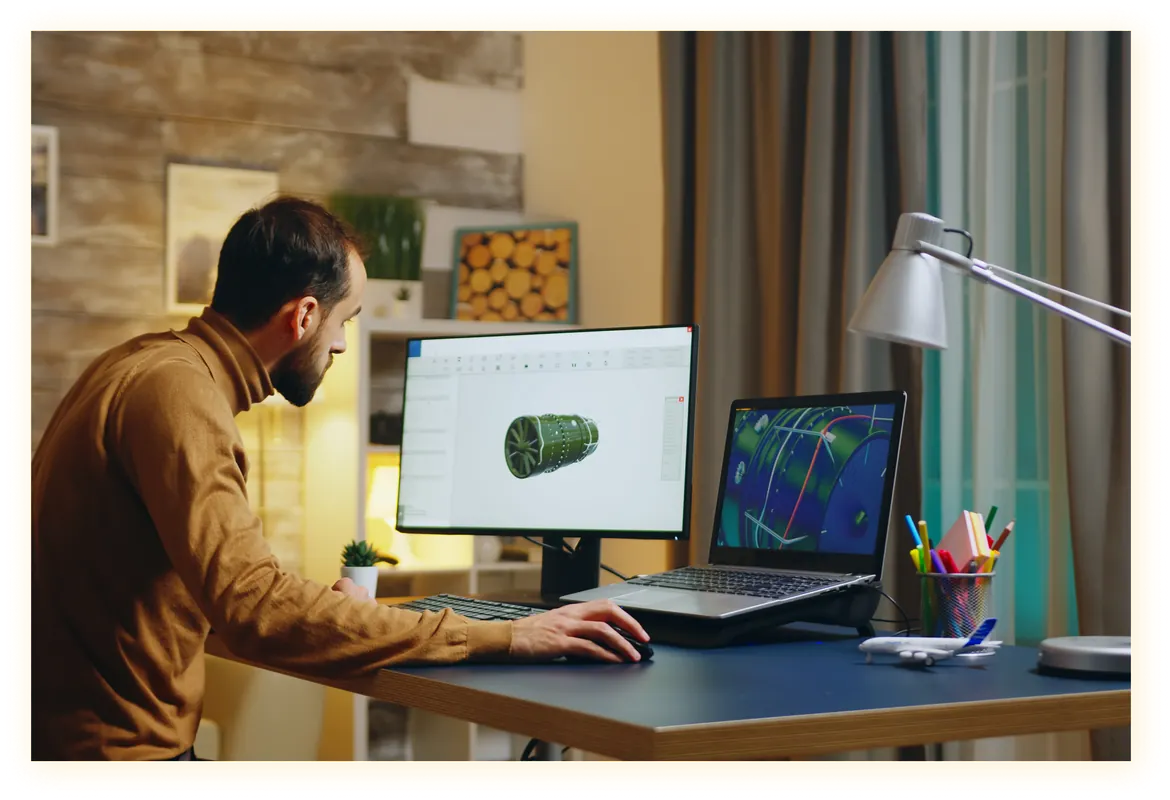
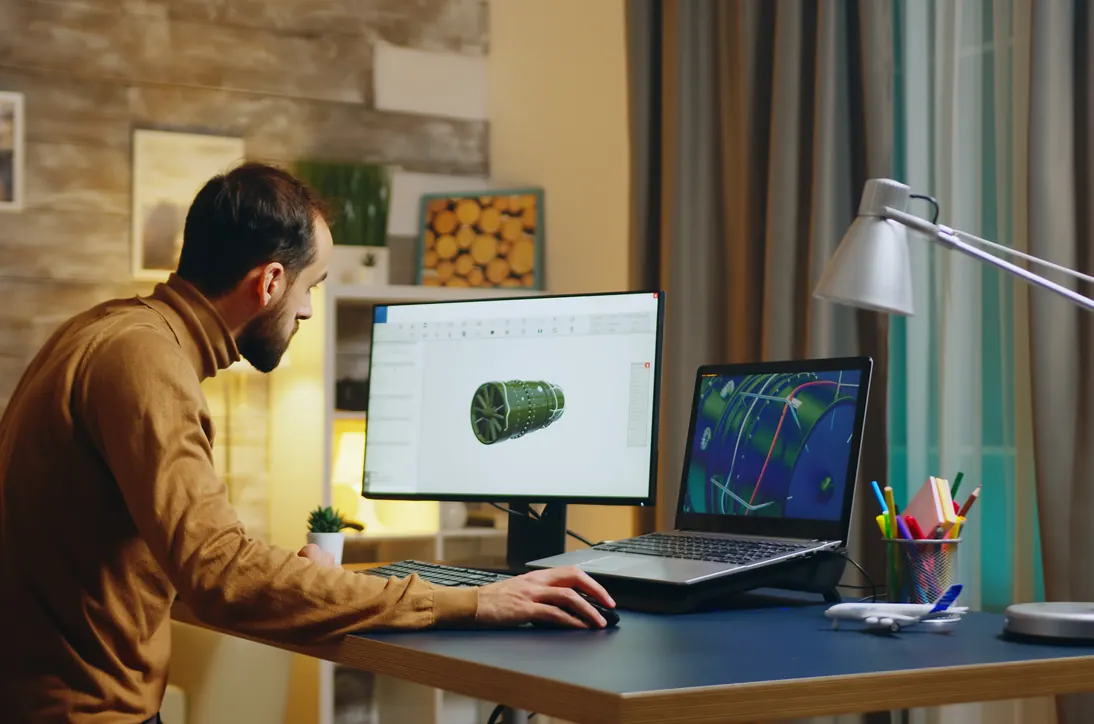
Process: remove the photo caption and trim the photo's baked-in border
Drops "Ideas become tested hardware, one stage at a time." and its dark overlay. The
whatwedo photo had a cream glow border in the file itself, which showed as empty space
inside the card; optimize-images now supports a crop and trims it (83 KB -> 44 KB).

diff --git a/components/sections/Process.jsx b/components/sections/Process.jsx
@@ -25,12 +25,8 @@ export default function Process() {
               alt="Product engineer working on a 3D mechanical design at a workstation"
               fill
               sizes="(max-width: 1024px) 100vw, 58vw"
-              className="object-cover"
+              className="object-cover object-[50%_45%]"
             />
-            <div className="absolute inset-0 bg-gradient-to-r from-[#080b12]/85 via-[#080b12]/30 to-transparent" />
-            <div className="absolute bottom-5 left-5 sm:bottom-7 sm:left-7 max-w-sm">
-              <p className="text-lg sm:text-xl font-semibold text-white">Ideas become tested hardware, one stage at a time.</p>
-            </div>
           </div>
         </div>
 
